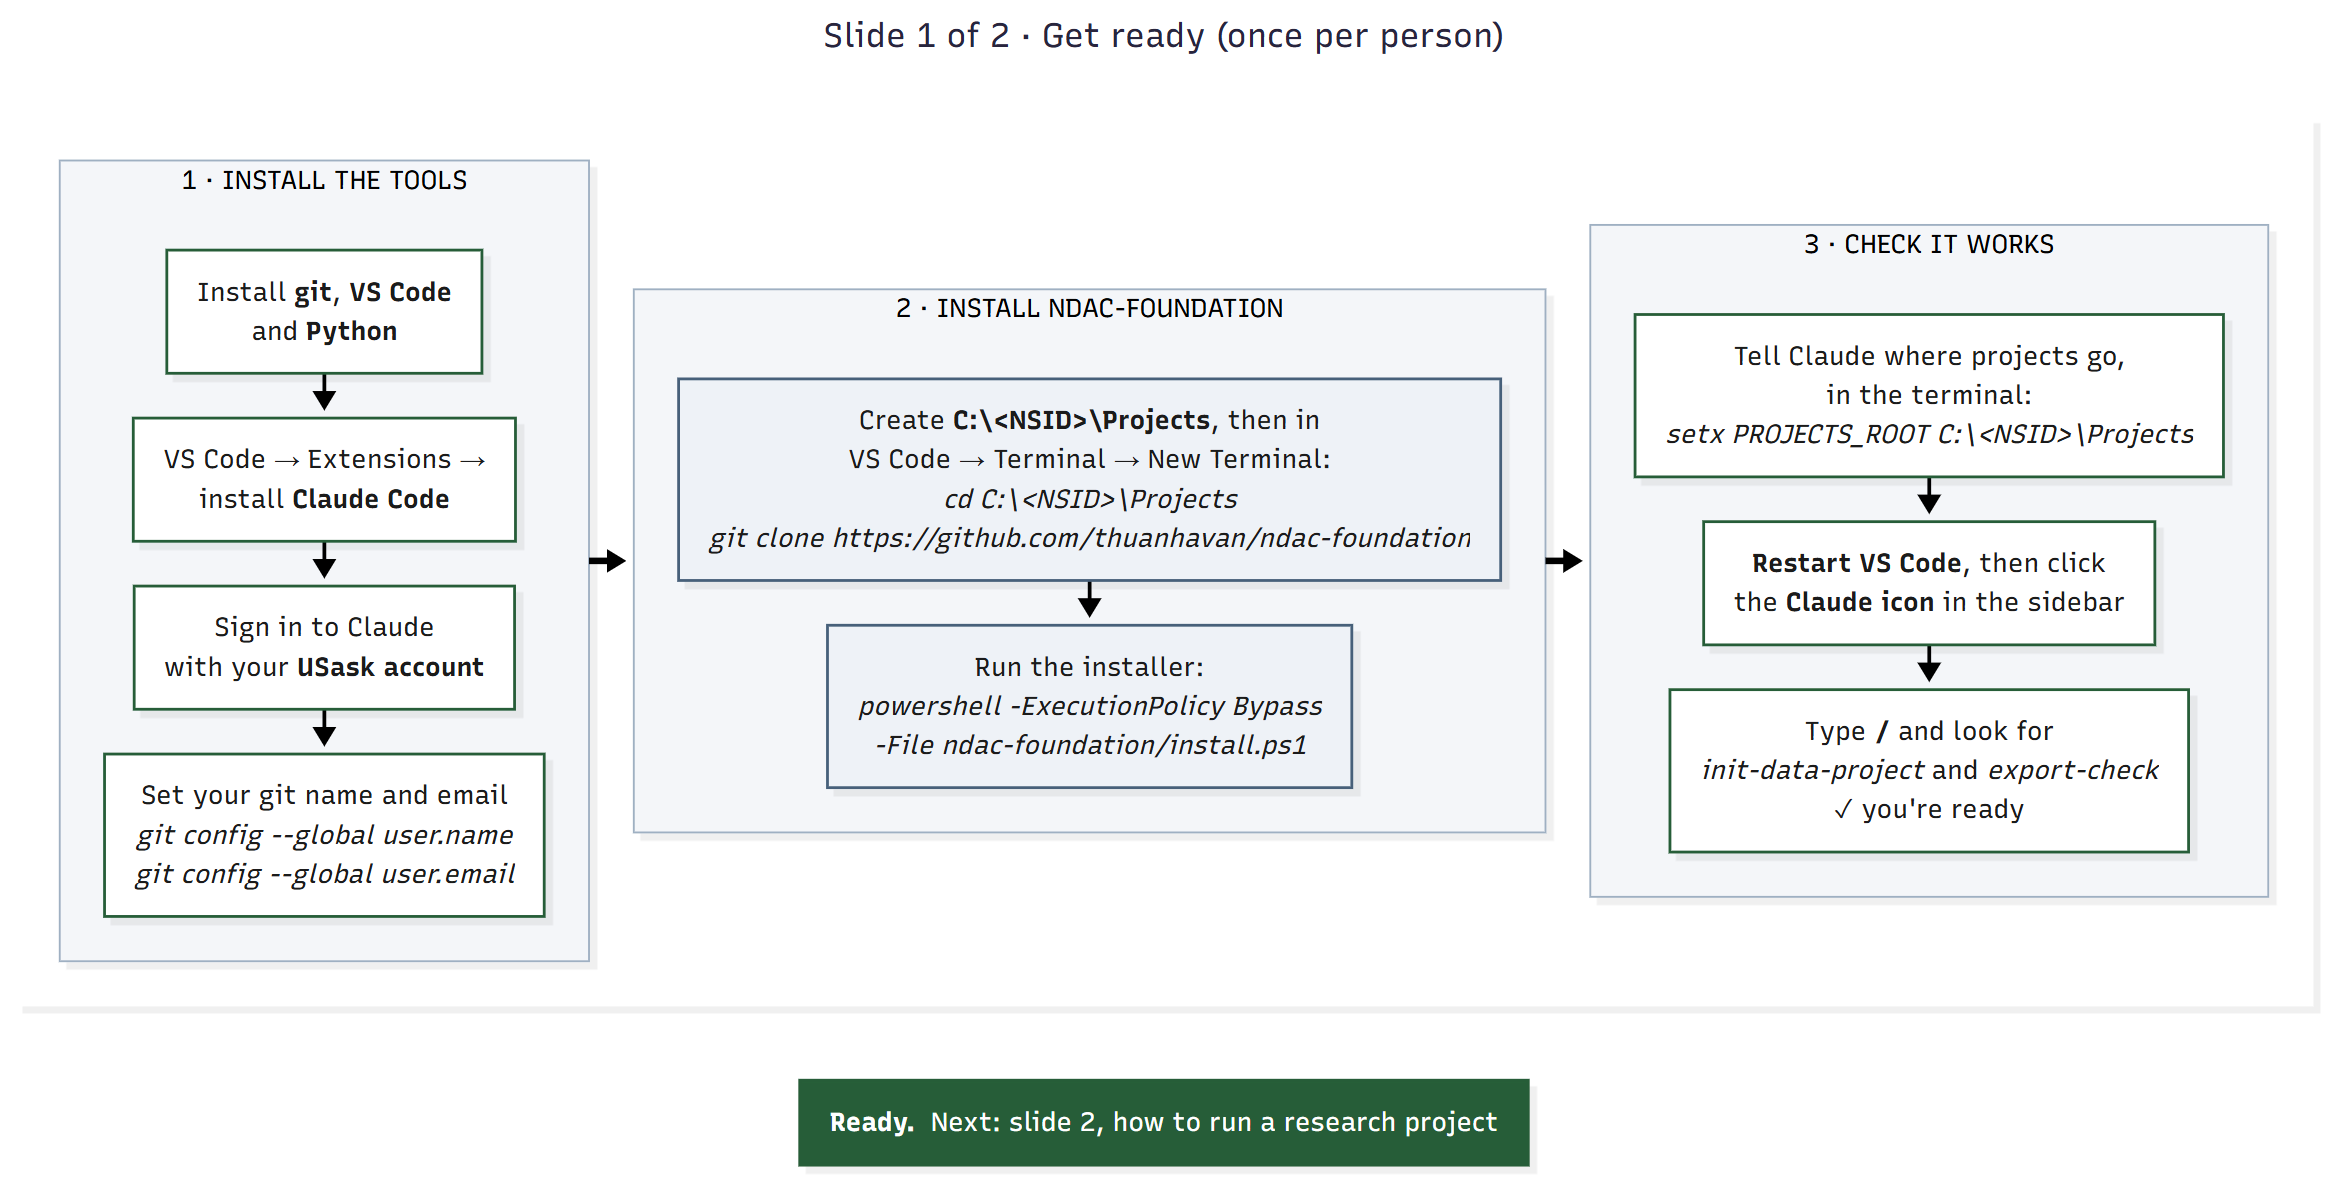
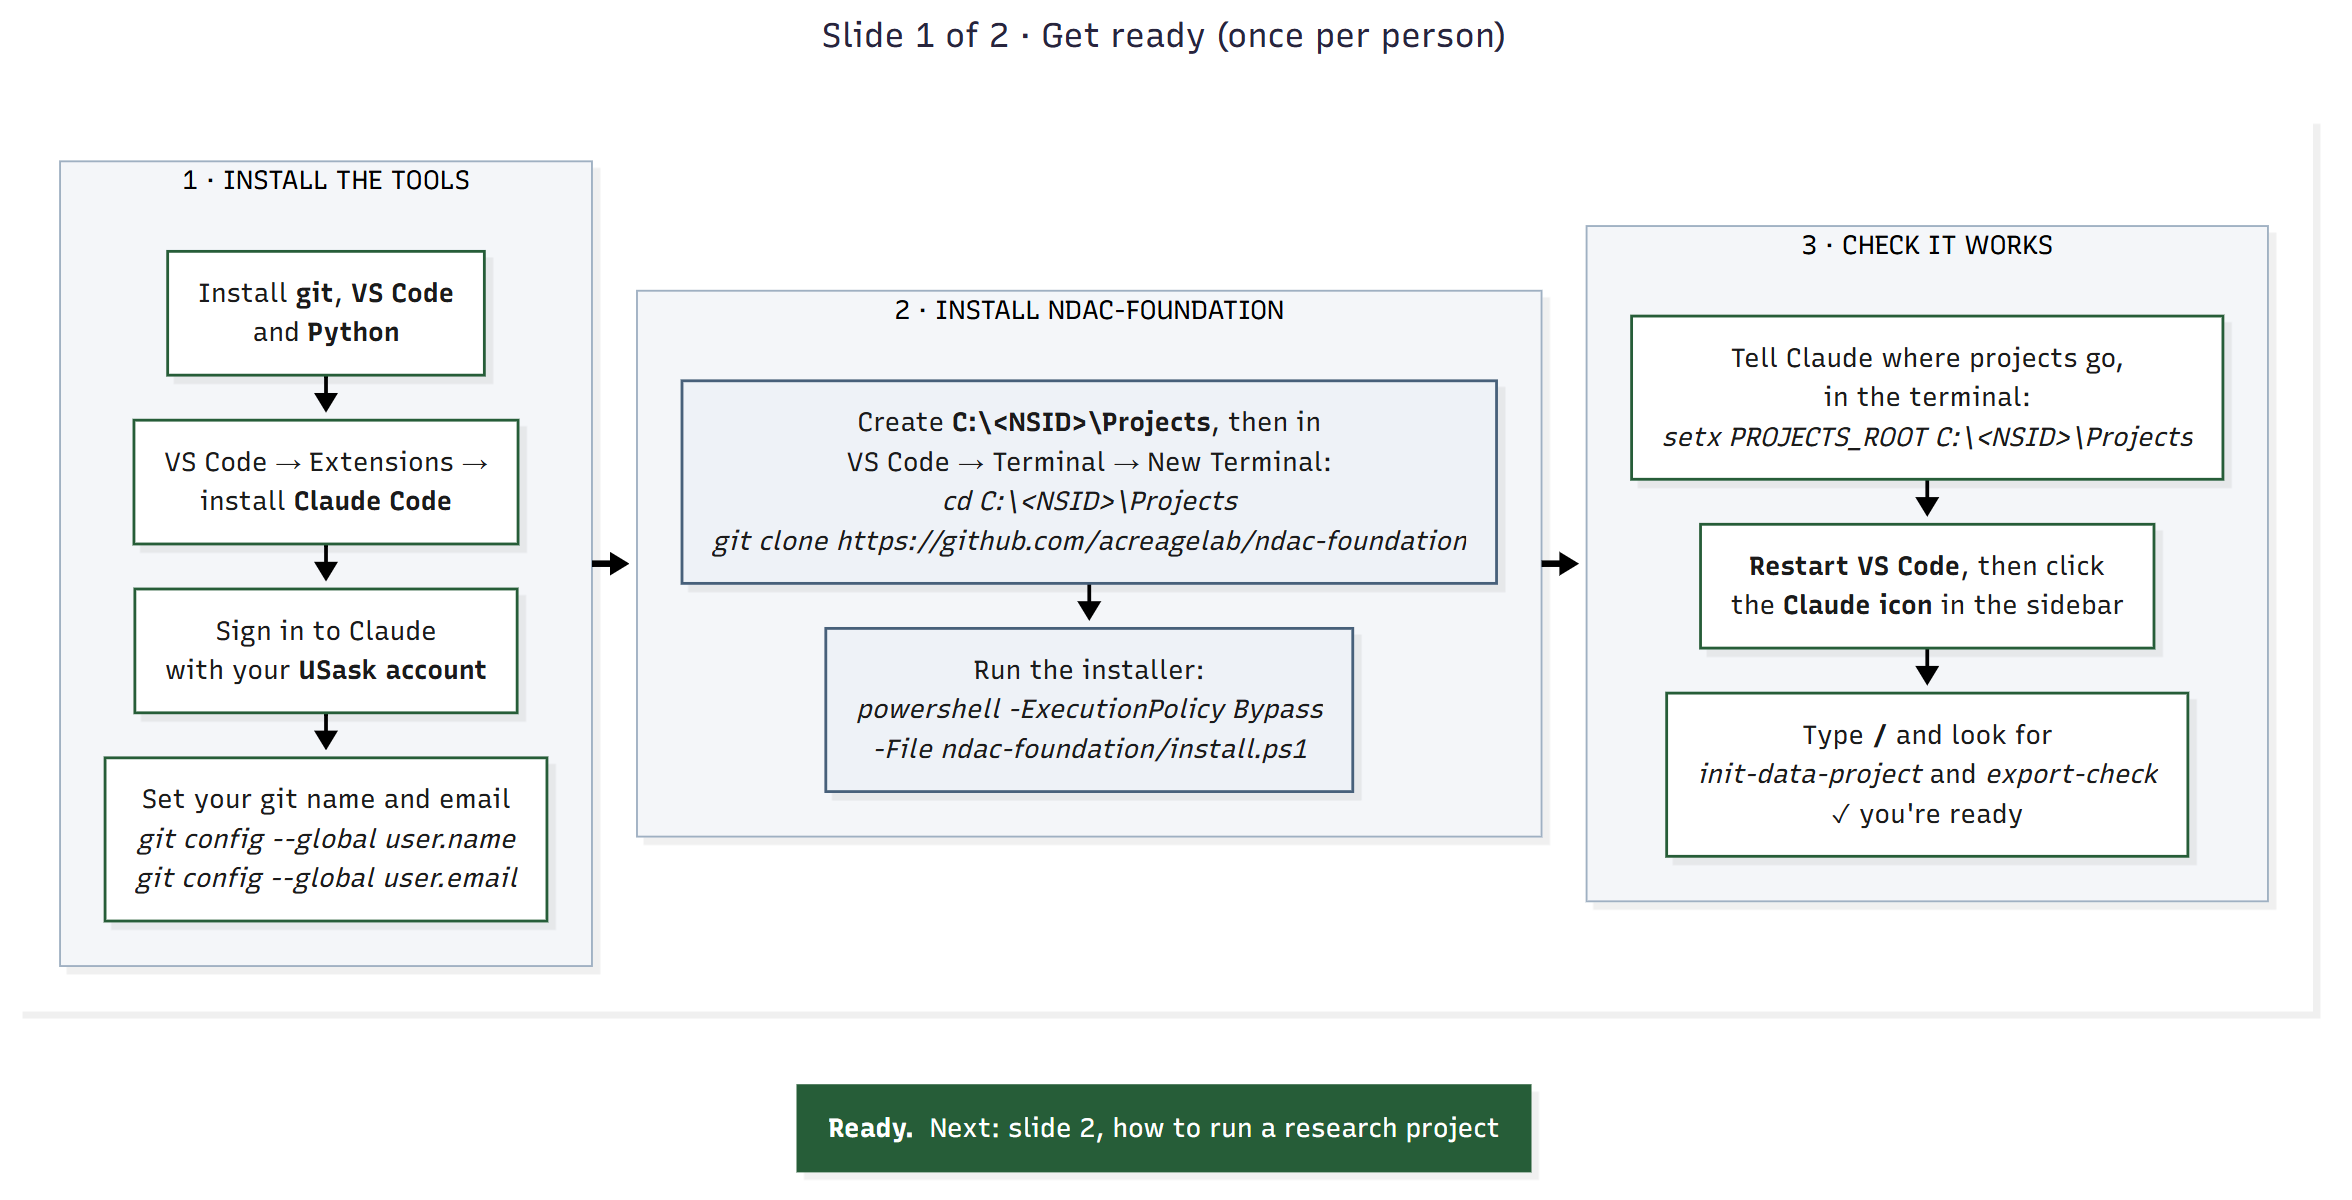
Move repo links to github.com/acreagelab/ndac-foundation
README, install.ps1 and slides 1 and 3 (sources and PNGs) now clone from
the acreagelab repo.

diff --git a/README.md b/README.md
@@ -13,7 +13,7 @@ USask account), and **Python**. No GitHub account is needed to install.
 
 ```powershell
 mkdir C:\<NSID>\Projects
-git clone https://github.com/thuanhavan/ndac-foundation C:\<NSID>\Projects\ndac-foundation
+git clone https://github.com/acreagelab/ndac-foundation C:\<NSID>\Projects\ndac-foundation
 powershell -ExecutionPolicy Bypass -File C:\<NSID>\Projects\ndac-foundation\install.ps1
 setx PROJECTS_ROOT C:\<NSID>\Projects
 ```
